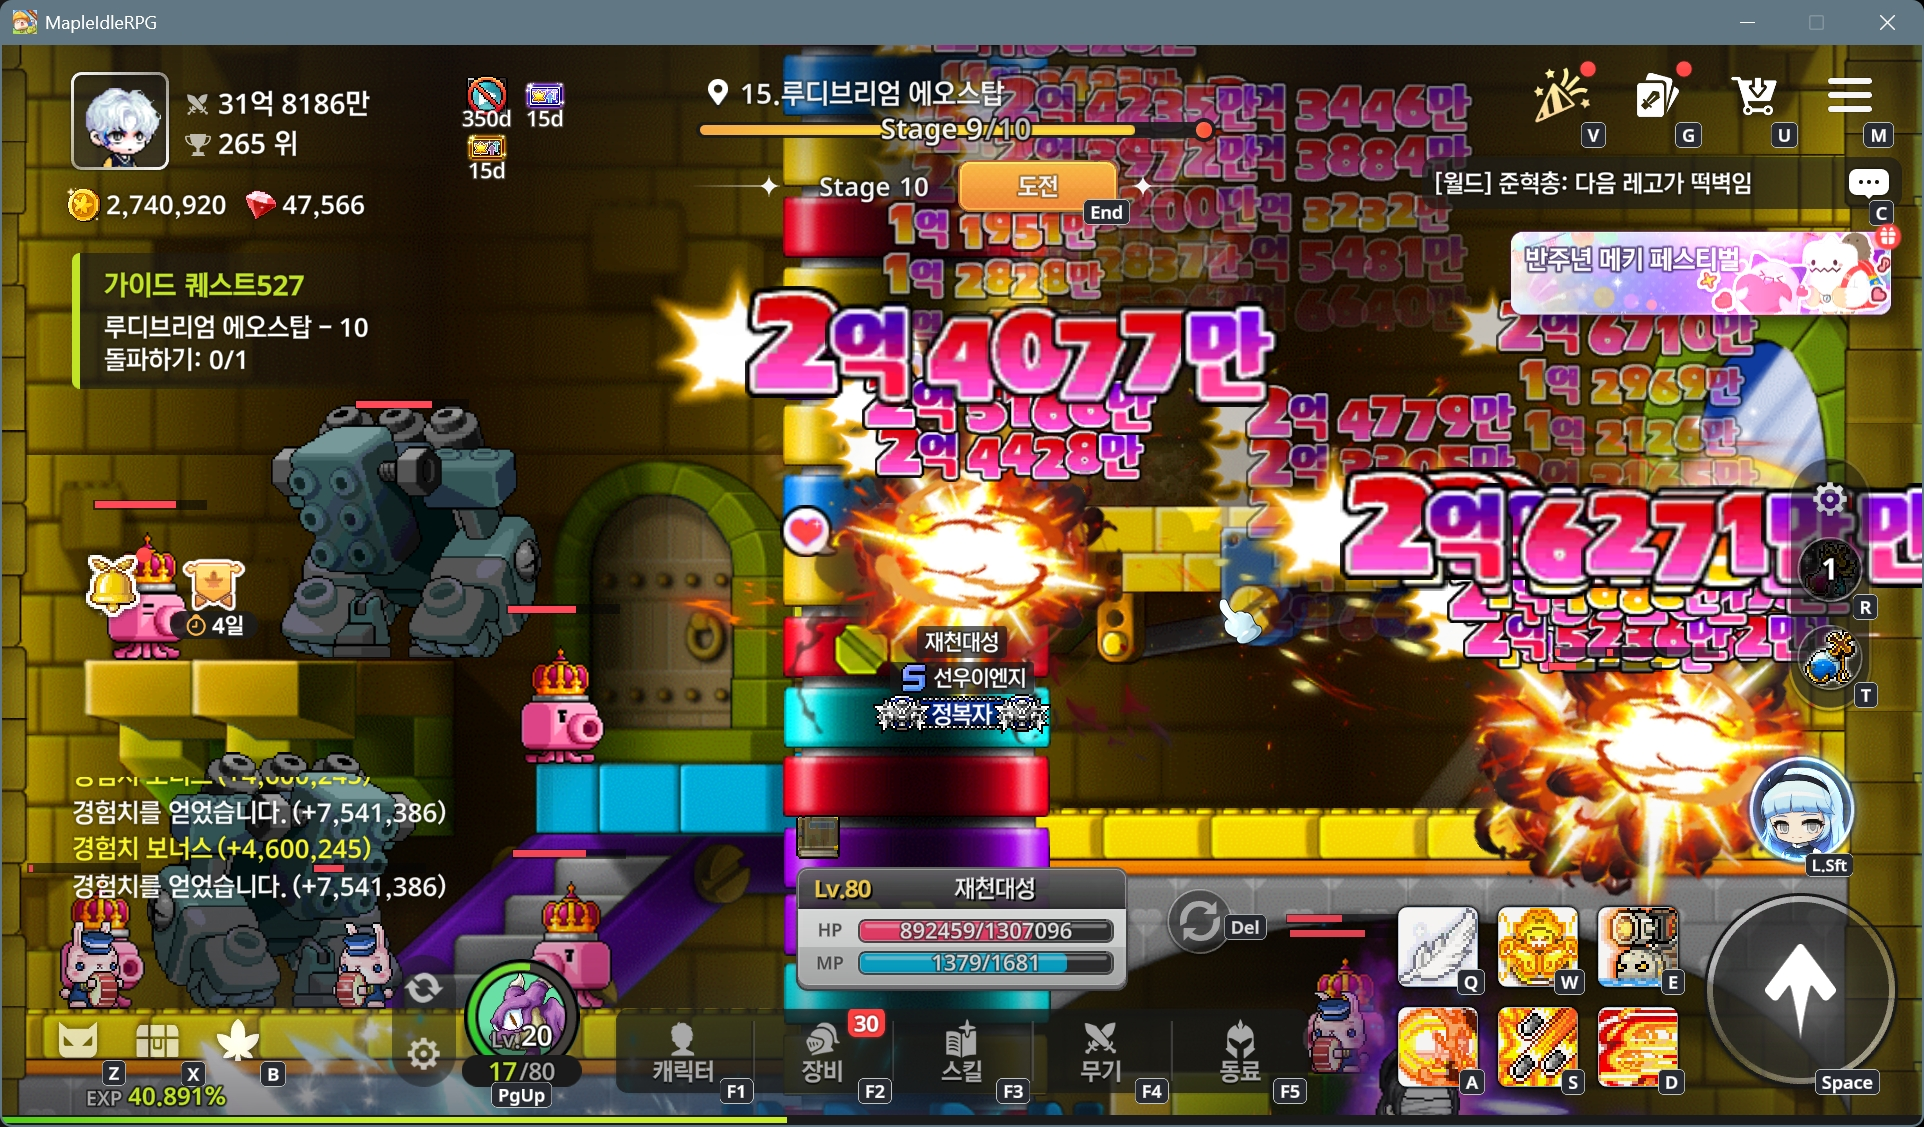
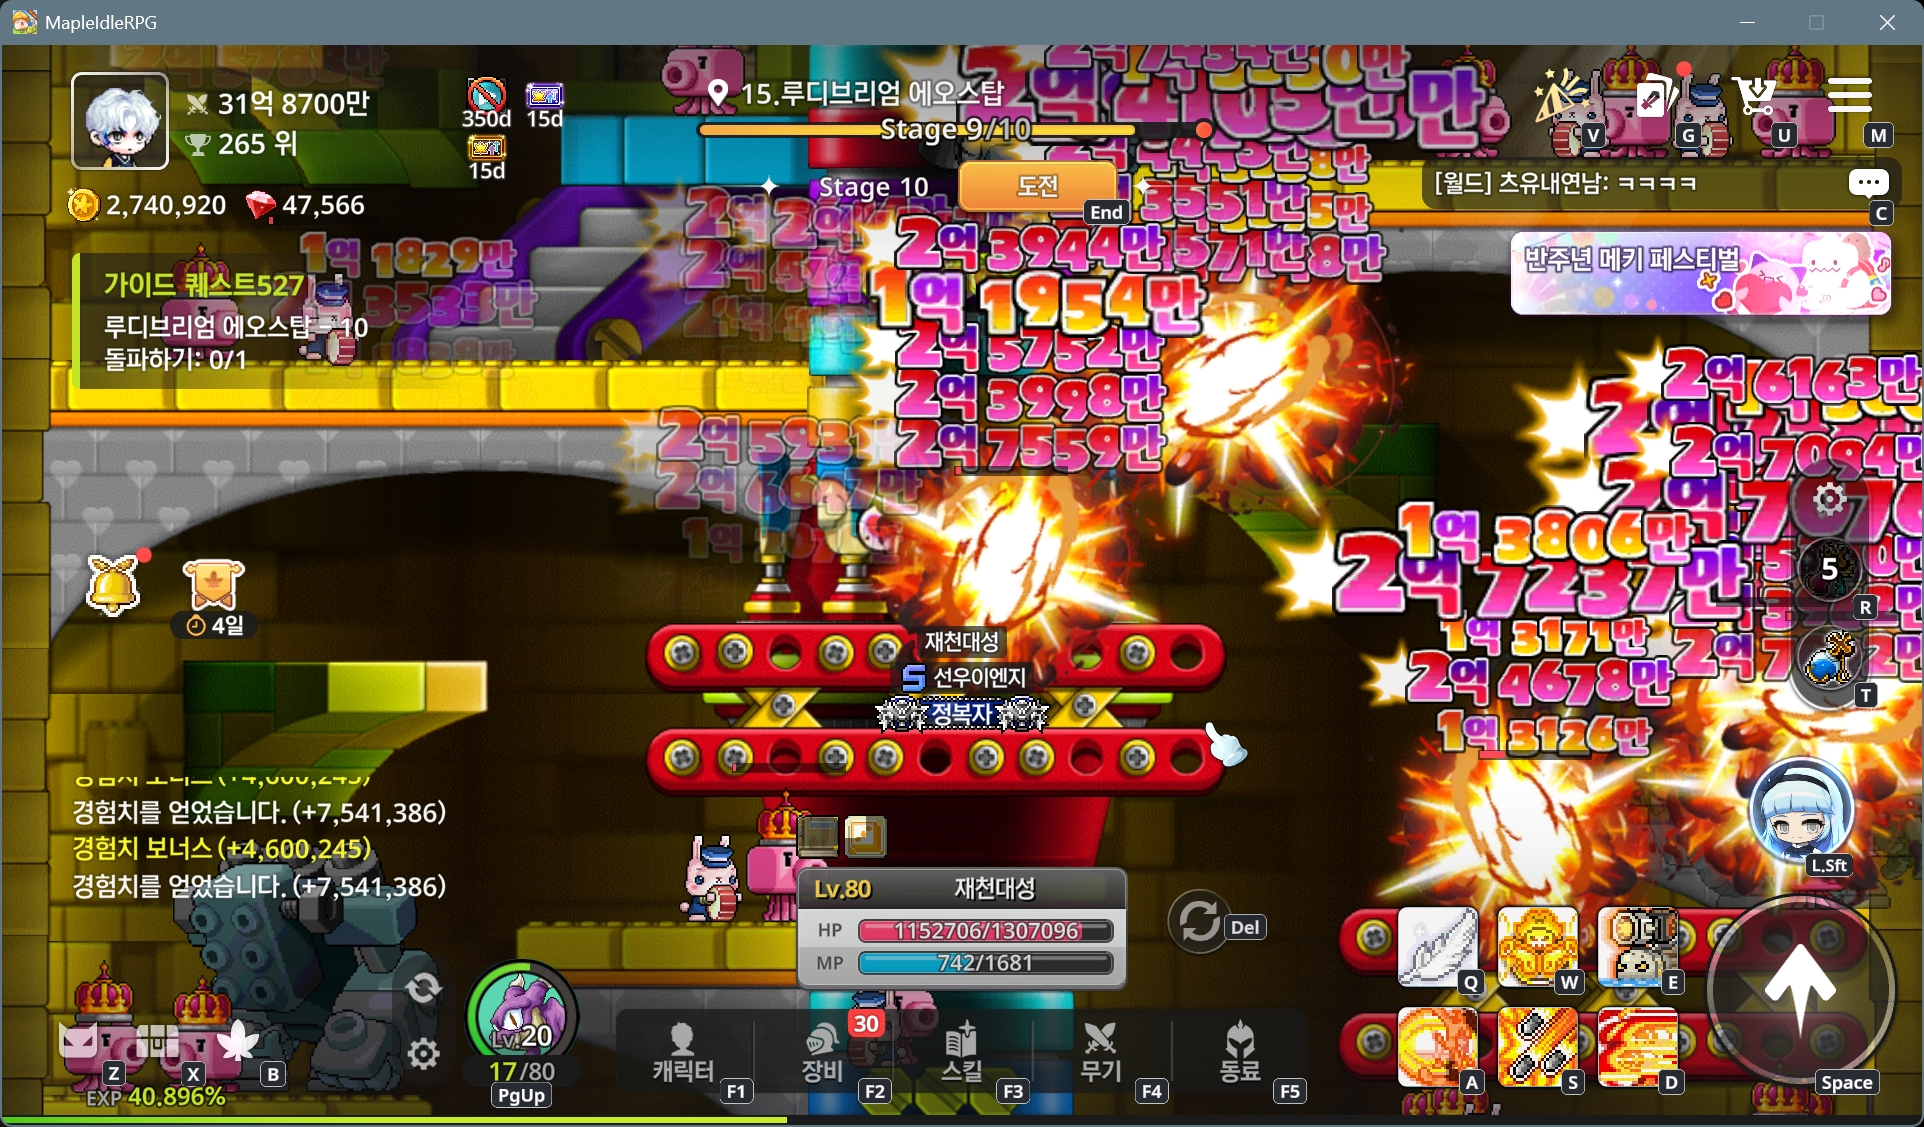
2026-06-04 auto

diff --git a/_progress/스탯-측정.md b/_progress/스탯-측정.md
@@ -17,6 +17,20 @@
 3. **타격 대상 고정** — 일반몹 또는 보스 중 하나로 통일(보스뎀 20% ≠ 일반뎀 44.5%라 섞으면 안 됨). → **일반몹 권장**.
 4. **버프 아이콘 없음 확인** 후 캡처.
 
+> ✅ 럭키 다이스 변동분은 **캐릭터창 공격력에 반영 안 됨(고정)** — 대표님 확인(2026-06-04). 따라서 **공격력 측정은 타이밍 무관하게 안전**. 변동분은 실제 타격 데미지에만 영향.
+
+### 럭키 다이스 (패시브 — 끌 수 없음, 항상 작동)
+
+> 스킬 정보: "공격력 **+25.5%**. 7초마다 주사위를 굴려 **5초간** 등장한 숫자에 비례, 공격력 **0~6.3% 추가**. 한번 등장한 숫자는 30초간 재등장 안 함." (Lv.60+32)
+
+| 구분 | 값 | 처리 |
+|------|-----|------|
+| 고정분 | +25.5% (상시) | **캐릭터창 공격력에 포함, 고정** ✅ → 무기 레벨 측정에 영향 없음 |
+| 변동분 | 0~6.3% (5초 등장/2초 공백) | 캐릭터창 미반영. **실제 타격 데미지에만** 적용 → 기댓값 계산 시 평균 곱 |
+
+- **변동분 평균 [가설]**: 숫자당 1.05%(6→6.3%) × 주사위 평균 3.5 = 등장 중 +3.675%. 시간가중(5/7) → **+2.6%**.
+- ✅ 변동분이 캐릭터창 공격력에 **반영 안 됨(고정)** 확인됨(2026-06-04) → 공격력 측정은 안전. 단, **실측 타격값엔 변동분이 섞이므로** 단발 대조는 노이즈, 여러 방 평균내면 +2.6%로 수렴.
+
 ## 측정 워크플로우 (대표님 ↔ 오케스트레이터)
 
 1. 대표님: 위 통제 조건 세팅 → 무기를 **한 단계만** 변경(Lv.N → Lv.N+1).
@@ -60,6 +74,8 @@
 | # | 무기 Lv | 공격력 | 전투력(만) | 일반 타격 | 크리 타격 | 크리/일반 | 캡처 시각 |
 |---|--------|--------|-----------|----------|----------|----------|----------|
 | 1 | **Lv.3** (baseline) | 6,663,010 | 318,186 ⚠ | 120,000,000 | 240,770,000 | **2.006×** | 2026-06-04 15:03 |
+
+> 공격력 6,663,010 = 럭키 다이스 고정분 포함·변동분 미반영 → **안정적 baseline, 무기 레벨 측정에 유효** ✅
 | 2 | Lv.4 | _대기_ | _대기_ | _대기_ | _대기_ | — | — |
 
 > 조건: 동료 OFF · 기본공격 · 대상=일반몹(추정). 타격값은 편차 ±몇만 허용(대표님 확인).
